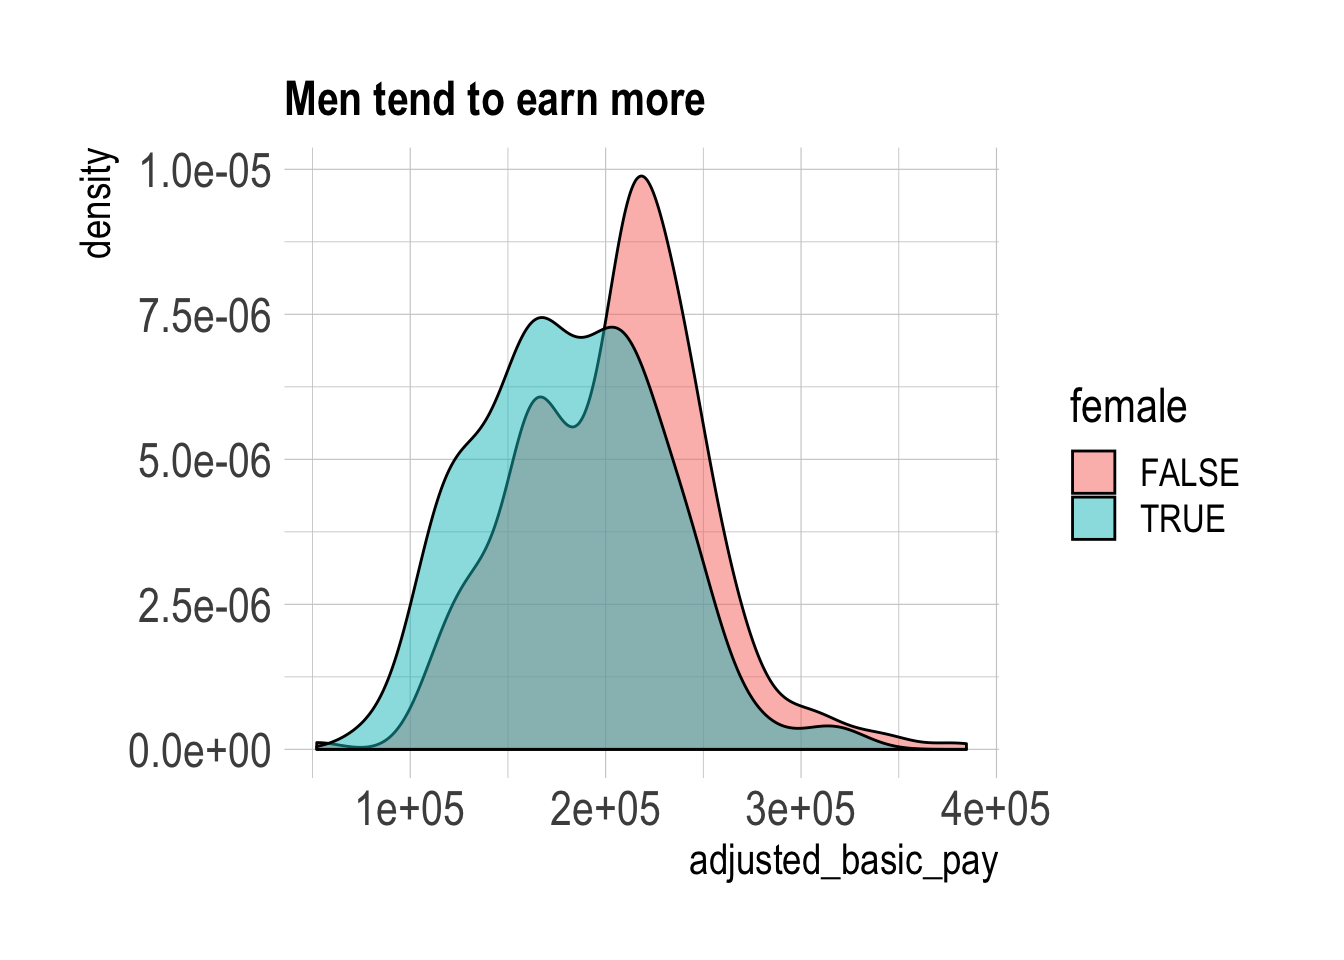
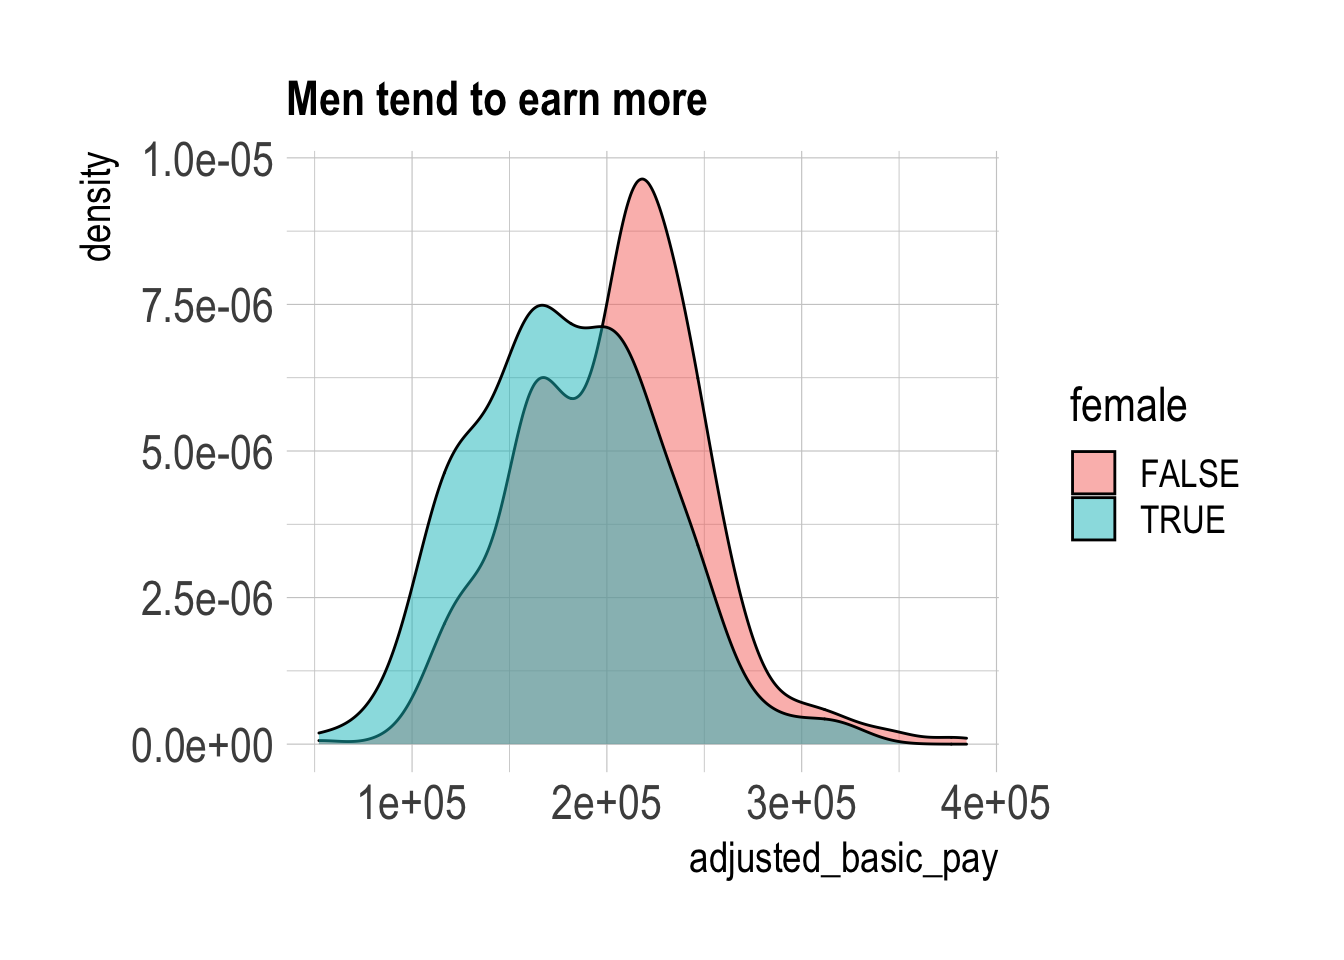
not sure why this got rerun but whatever

diff --git a/content/post/2018-02-15-scraping-nih-pis-with-rvest.html b/content/post/2018-02-15-scraping-nih-pis-with-rvest.html
@@ -49,24 +49,22 @@ output:
 <div id="scraping-investigator-names" class="section level1">
 <h1><span class="header-section-number">2</span> Scraping Investigator Names</h1>
 <p>You can find the name of all IRP Principal Investigators (PIs) <a href="https://irp.nih.gov/our-research/principal-investigators/name">here</a>, or see a screenshot of the page below.</p>
-<div class="figure">
-<img src="/img/posts/2018-02-15-scraping-nih-pis-with-rvest/pi_names.png" />
-
-</div>
+<p><img src="/img/posts/2018-02-15-scraping-nih-pis-with-rvest/pi_names.png" /></p>
 <p>I want to collect all these names without having to copy and paste them. This will help make the analysis reproducible and less prone to error. I’m going to do this with the <code>rvest</code> package, following the steps in <a href="https://cran.r-project.org/web/packages/rvest/vignettes/selectorgadget.html">the vignette for SelectorGadget</a>.</p>
 <blockquote>
 <p>Selectorgadget is a javascript bookmarklet that allows you to interactively figure out what css selector you need to extract desired components from a page.</p>
 </blockquote>
 <p>What I need to do is go to <a href="https://irp.nih.gov/our-research/principal-investigators/name">the page I want to scrape data from</a> and use SelectorGadget to select the elements I want (yellow highlight) and don’t want (red highlight). I end up with this:</p>
-<div class="figure">
-<img src="/img/posts/2018-02-15-scraping-nih-pis-with-rvest/selectorgadget.png" />
-
-</div>
+<p><img src="/img/posts/2018-02-15-scraping-nih-pis-with-rvest/selectorgadget.png" /></p>
 <p>At the bottom of the screenshot, SelectorGadget has determined the right CSS selector needed to extract the names. Now we can move to doing everything in R.</p>
 <pre class="r"><code>knitr::opts_chunk$set(warning = F, message = F)
 
 library(tidyverse)</code></pre>
-<pre><code>## Warning: package &#39;dplyr&#39; was built under R version 3.5.1</code></pre>
+<pre><code>## Warning: package &#39;tibble&#39; was built under R version 3.5.2</code></pre>
+<pre><code>## Warning: package &#39;tidyr&#39; was built under R version 3.5.2</code></pre>
+<pre><code>## Warning: package &#39;purrr&#39; was built under R version 3.5.2</code></pre>
+<pre><code>## Warning: package &#39;dplyr&#39; was built under R version 3.5.2</code></pre>
+<pre><code>## Warning: package &#39;stringr&#39; was built under R version 3.5.2</code></pre>
 <pre class="r"><code>library(magrittr)
 library(rvest)
 
@@ -78,13 +76,11 @@ pi_names_html = html_nodes(html, &quot;.pilist-name a&quot;)
 pi_names = html_text(pi_names_html) 
 
 pi_names[1:5]</code></pre>
-<pre><code>## [1] &quot;Abnet, Christian C., Ph.D., M.P.H.&quot;
-## [2] &quot;Acharya, Jairaj K., MBBS, Ph.D.&quot;   
-## [3] &quot;Adelstein, Robert S., M.D.&quot;        
-## [4] &quot;Adhya, Sankar, Ph.D.&quot;              
-## [5] &quot;Afraz, Arash, Ph.D., M.D.&quot;</code></pre>
+<pre><code>## [1] &quot;Abnet, Christian C., Ph.D., M.P.H.&quot; &quot;Acharya, Jairaj K., MBBS, Ph.D.&quot;   
+## [3] &quot;Adelstein, Robert S., M.D.&quot;         &quot;Adhya, Sankar, Ph.D.&quot;              
+## [5] &quot;Afraz, Arash, M.D., Ph.D.&quot;</code></pre>
 <p>We now have the PI names as a character vector along with their degrees. To keep things simple, I’m going to extract just their first and last names and ignore the other information.</p>
-<pre class="r"><code>df = data_frame(fullname = pi_names)
+<pre class="r"><code>df = tibble(fullname = pi_names)
 
 # separate name into first, middle, last
 df %&lt;&gt;%
@@ -95,20 +91,20 @@ df %&lt;&gt;%
   separate(first_name, into = c(&quot;first_name&quot;, &quot;middle_name&quot;), sep = &quot;\\s&quot;) 
 
 df</code></pre>
-<pre><code>## # A tibble: 1,034 x 4
+<pre><code>## # A tibble: 1,062 x 4
 ##    fullname                           last_name first_name middle_name
 ##    &lt;chr&gt;                              &lt;chr&gt;     &lt;chr&gt;      &lt;chr&gt;      
 ##  1 Abnet, Christian C., Ph.D., M.P.H. Abnet     Christian  C.         
 ##  2 Acharya, Jairaj K., MBBS, Ph.D.    Acharya   Jairaj     K.         
 ##  3 Adelstein, Robert S., M.D.         Adelstein Robert     S.         
 ##  4 Adhya, Sankar, Ph.D.               Adhya     Sankar     &lt;NA&gt;       
-##  5 Afraz, Arash, Ph.D., M.D.          Afraz     Arash      &lt;NA&gt;       
-##  6 Agarwal, Piyush K., M.D.           Agarwal   Piyush     K.         
+##  5 Afraz, Arash, M.D., Ph.D.          Afraz     Arash      &lt;NA&gt;       
+##  6 Afzali, Behdad (Ben), M.D., Ph.D.  Afzali    Behdad     (Ben)      
 ##  7 Aguilera, Greti, M.D.              Aguilera  Greti      &lt;NA&gt;       
 ##  8 Aladjem, Mirit I., Ph.D.           Aladjem   Mirit      I.         
 ##  9 Albanes, Demetrius, M.D.           Albanes   Demetrius  &lt;NA&gt;       
 ## 10 Albert, Paul S., Ph.D.             Albert    Paul       S.         
-## # ... with 1,024 more rows</code></pre>
+## # … with 1,052 more rows</code></pre>
 <div id="clean-names" class="section level2">
 <h2><span class="header-section-number">2.1</span> Clean names</h2>
 <p>Below is some code for standardizing the names. I do three things:</p>
@@ -168,23 +164,22 @@ opm2017 %&lt;&gt;%
 
 opm2017</code></pre>
 <pre><code>## # A tibble: 1,355,327 x 19
-##    last_name  first_name  file_date agency    subagency   state  age_range
-##    &lt;chr&gt;      &lt;chr&gt;           &lt;int&gt; &lt;chr&gt;     &lt;chr&gt;       &lt;chr&gt;  &lt;chr&gt;    
-##  1 NAME WITH… NAME WITHH…    201703 TR-DEPAR… TR93-INTER… REDAC… 60-64    
-##  2 NAME WITH… NAME WITHH…    201703 TR-DEPAR… TR93-INTER… REDAC… 60-64    
-##  3 NAME WITH… NAME WITHH…    201703 TR-DEPAR… TR93-INTER… REDAC… 60-64    
-##  4 NAME WITH… NAME WITHH…    201703 TR-DEPAR… TR93-INTER… REDAC… 60-64    
-##  5 NAME WITH… NAME WITHH…    201703 TR-DEPAR… TR93-INTER… 11-DI… 35-39    
-##  6 HESS       KEVIN          201703 VA-DEPAR… VALA-VETER… 41-OR… 50-54    
-##  7 KELLER     STEVEN         201703 VA-DEPAR… VALA-VETER… 47-TE… 50-54    
-##  8 SAPP       JAMES          201703 HE-DEPAR… HE35-AGENC… 13-GE… 50-54    
-##  9 NAME WITH… NAME WITHH…    201703 HS-DEPAR… HSBB-IMMIG… REDAC… 50-54    
-## 10 NAME WITH… NAME WITHH…    201703 HS-DEPAR… HSBB-IMMIG… REDAC… 50-54    
-## # ... with 1,355,317 more rows, and 12 more variables: ysd_range &lt;chr&gt;,
-## #   education_level &lt;chr&gt;, pay_plan &lt;chr&gt;, grade &lt;chr&gt;, los_level &lt;chr&gt;,
-## #   occupation &lt;chr&gt;, patco &lt;chr&gt;, adjusted_basic_pay &lt;dbl&gt;,
-## #   supervisory_status &lt;chr&gt;, toa &lt;chr&gt;, work_schedule &lt;chr&gt;,
-## #   nsftp_indicator &lt;chr&gt;</code></pre>
+##    last_name first_name file_date agency subagency state age_range ysd_range
+##    &lt;chr&gt;     &lt;chr&gt;          &lt;dbl&gt; &lt;chr&gt;  &lt;chr&gt;     &lt;chr&gt; &lt;chr&gt;     &lt;chr&gt;    
+##  1 NAME WIT… NAME WITH…    201703 TR-DE… TR93-INT… REDA… 60-64     30 - 34 …
+##  2 NAME WIT… NAME WITH…    201703 TR-DE… TR93-INT… REDA… 60-64     35 - 39 …
+##  3 NAME WIT… NAME WITH…    201703 TR-DE… TR93-INT… REDA… 60-64     40 - 44 …
+##  4 NAME WIT… NAME WITH…    201703 TR-DE… TR93-INT… REDA… 60-64     25 - 29 …
+##  5 NAME WIT… NAME WITH…    201703 TR-DE… TR93-INT… 11-D… 35-39     10 - 14 …
+##  6 HESS      KEVIN         201703 VA-DE… VALA-VET… 41-O… 50-54     25 - 29 …
+##  7 KELLER    STEVEN        201703 VA-DE… VALA-VET… 47-T… 50-54     5 - 9 ye…
+##  8 SAPP      JAMES         201703 HE-DE… HE35-AGE… 13-G… 50-54     25 - 29 …
+##  9 NAME WIT… NAME WITH…    201703 HS-DE… HSBB-IMM… REDA… 50-54     25 - 29 …
+## 10 NAME WIT… NAME WITH…    201703 HS-DE… HSBB-IMM… REDA… 50-54     Unspecif…
+## # … with 1,355,317 more rows, and 11 more variables: education_level &lt;chr&gt;,
+## #   pay_plan &lt;chr&gt;, grade &lt;chr&gt;, los_level &lt;chr&gt;, occupation &lt;chr&gt;,
+## #   patco &lt;chr&gt;, adjusted_basic_pay &lt;dbl&gt;, supervisory_status &lt;chr&gt;, toa &lt;chr&gt;,
+## #   work_schedule &lt;chr&gt;, nsftp_indicator &lt;chr&gt;</code></pre>
 <p>I perform the same operations for cleaning names. I also <code>filter</code> the employees belonging to the NIH using the <code>subagency</code> code “HE38”.</p>
 <pre class="r"><code># NIH employees only
 opm2017 %&lt;&gt;% filter(str_detect(subagency, &quot;HE38&quot;))
@@ -224,7 +219,7 @@ pi_opm %&lt;&gt;%
   mutate(y = n() &gt; 1) %&gt;% # duplicate from OPM data
   ungroup() %&gt;% 
   filter(!x, !y)</code></pre>
-<p>We had 1034 names and managed to match 890 of them. We could maybe do better but for such a simple “algorithm” I’m happy enough.</p>
+<p>We had 1062 names and managed to match 887 of them. We could maybe do better but for such a simple “algorithm” I’m happy enough.</p>
 </div>
 </div>
 <div id="what-can-we-learn-about-the-intramural-program" class="section level1">
@@ -269,7 +264,7 @@ pi_opm %&gt;%
 </div>
 <div id="gender-representation-in-the-intramural-program" class="section level2">
 <h2><span class="header-section-number">4.3</span> Gender representation in the intramural program</h2>
-<p>The actual demographics of the intramural program are available <a href="https://oir.nih.gov/sourcebook/personnel/irp-demographics/intramural-research-program-personnel-demographics-end-fy17">online</a>. The number of female tenured researchers (Senior Investigators) is low at 23%, and increases somewhat as you go to more junior appointments.<a href="#fn1" class="footnoteRef" id="fnref1"><sup>1</sup></a></p>
+<p>The actual demographics of the intramural program are available <a href="https://oir.nih.gov/sourcebook/personnel/irp-demographics/intramural-research-program-personnel-demographics-end-fy17">online</a>. The number of female tenured researchers (Senior Investigators) is low at 23%, and increases somewhat as you go to more junior appointments.<a href="#fn1" class="footnote-ref" id="fnref1"><sup>1</sup></a></p>
 <p>Since gender isn’t available in the OPM data, I’ll use <a href="http://abel.lis.illinois.edu/cgi-bin/genni/search.cgi">Genni</a> to predict gender based on first name and birth year.</p>
 <pre class="r"><code>genni = read_tsv(here::here(&quot;../Genni/ssnnamesdata.out&quot;), 
                  col_types = cols_only(name = &quot;c&quot;, `2008` = &quot;c&quot;))
@@ -286,7 +281,7 @@ genni %&lt;&gt;%
 pi_opm %&lt;&gt;% left_join(genni, by = c(&quot;first_name&quot; = &quot;name&quot;)) 
 
 nafem = pi_opm %&gt;% filter(is.na(pfem)) %&gt;% nrow() # number names without prediction</code></pre>
-<p>There are 90 persons whose first names do not appear in Genni. I’ll impose an arbitrary threshold that we have to be at least 75% sure to classify someone as female or male.</p>
+<p>There are 92 persons whose first names do not appear in Genni. I’ll impose an arbitrary threshold that we have to be at least 75% sure to classify someone as female or male.</p>
 <pre class="r"><code>pi_opm_fem = pi_opm %&gt;% 
   filter(pfem &gt;= 0.75 | pfem &lt;= 0.25) %&gt;% 
   mutate(female = pfem &gt;= 0.75)
@@ -297,8 +292,8 @@ pi_opm_fem %&gt;%
 <pre><code>## # A tibble: 2 x 3
 ##   female     n percent
 ##   &lt;lgl&gt;  &lt;int&gt;   &lt;dbl&gt;
-## 1 FALSE    580    74.8
-## 2 TRUE     195    25.2</code></pre>
+## 1 FALSE    560    73.0
+## 2 TRUE     207    27.0</code></pre>
 <div id="gender-salary-differences" class="section level3">
 <h3><span class="header-section-number">4.3.1</span> Gender salary differences</h3>
 <pre class="r"><code>pi_opm_fem %&gt;% 
@@ -348,6 +343,6 @@ Google, translated: If you control for all the ways we discriminate against wome
 <div class="footnotes">
 <hr />
 <ol>
-<li id="fn1"><p><a href="https://oir.nih.gov/sourcebook/personnel/ipds-appointment-mechanisms">Appointment definitions here</a><a href="#fnref1">↩</a></p></li>
+<li id="fn1"><p><a href="https://oir.nih.gov/sourcebook/personnel/ipds-appointment-mechanisms">Appointment definitions here</a><a href="#fnref1" class="footnote-back">↩</a></p></li>
 </ol>
 </div>
